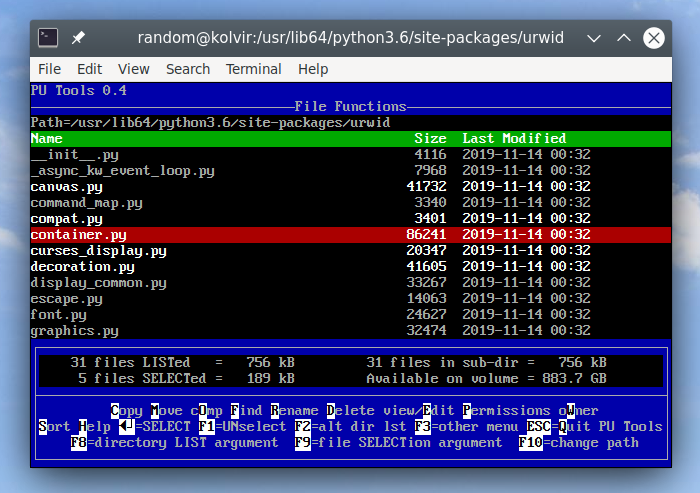
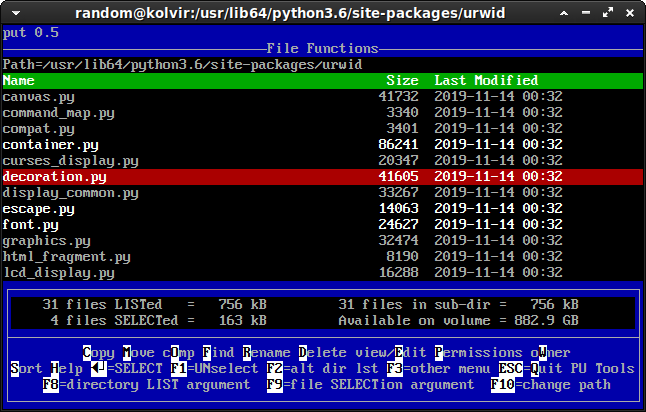
Update screenshot

diff --git a/README.md b/README.md
@@ -1,5 +1,7 @@
 # put
 
-A free software file manager inspired by PC Tools Deluxe. Work in progress.
+A free software file manager inspired by PC Tools Deluxe.
+
+Work in progress.
 
 ![screenshot](https://raw.githubusercontent.com/vrza/put/master/screenshot.png)
